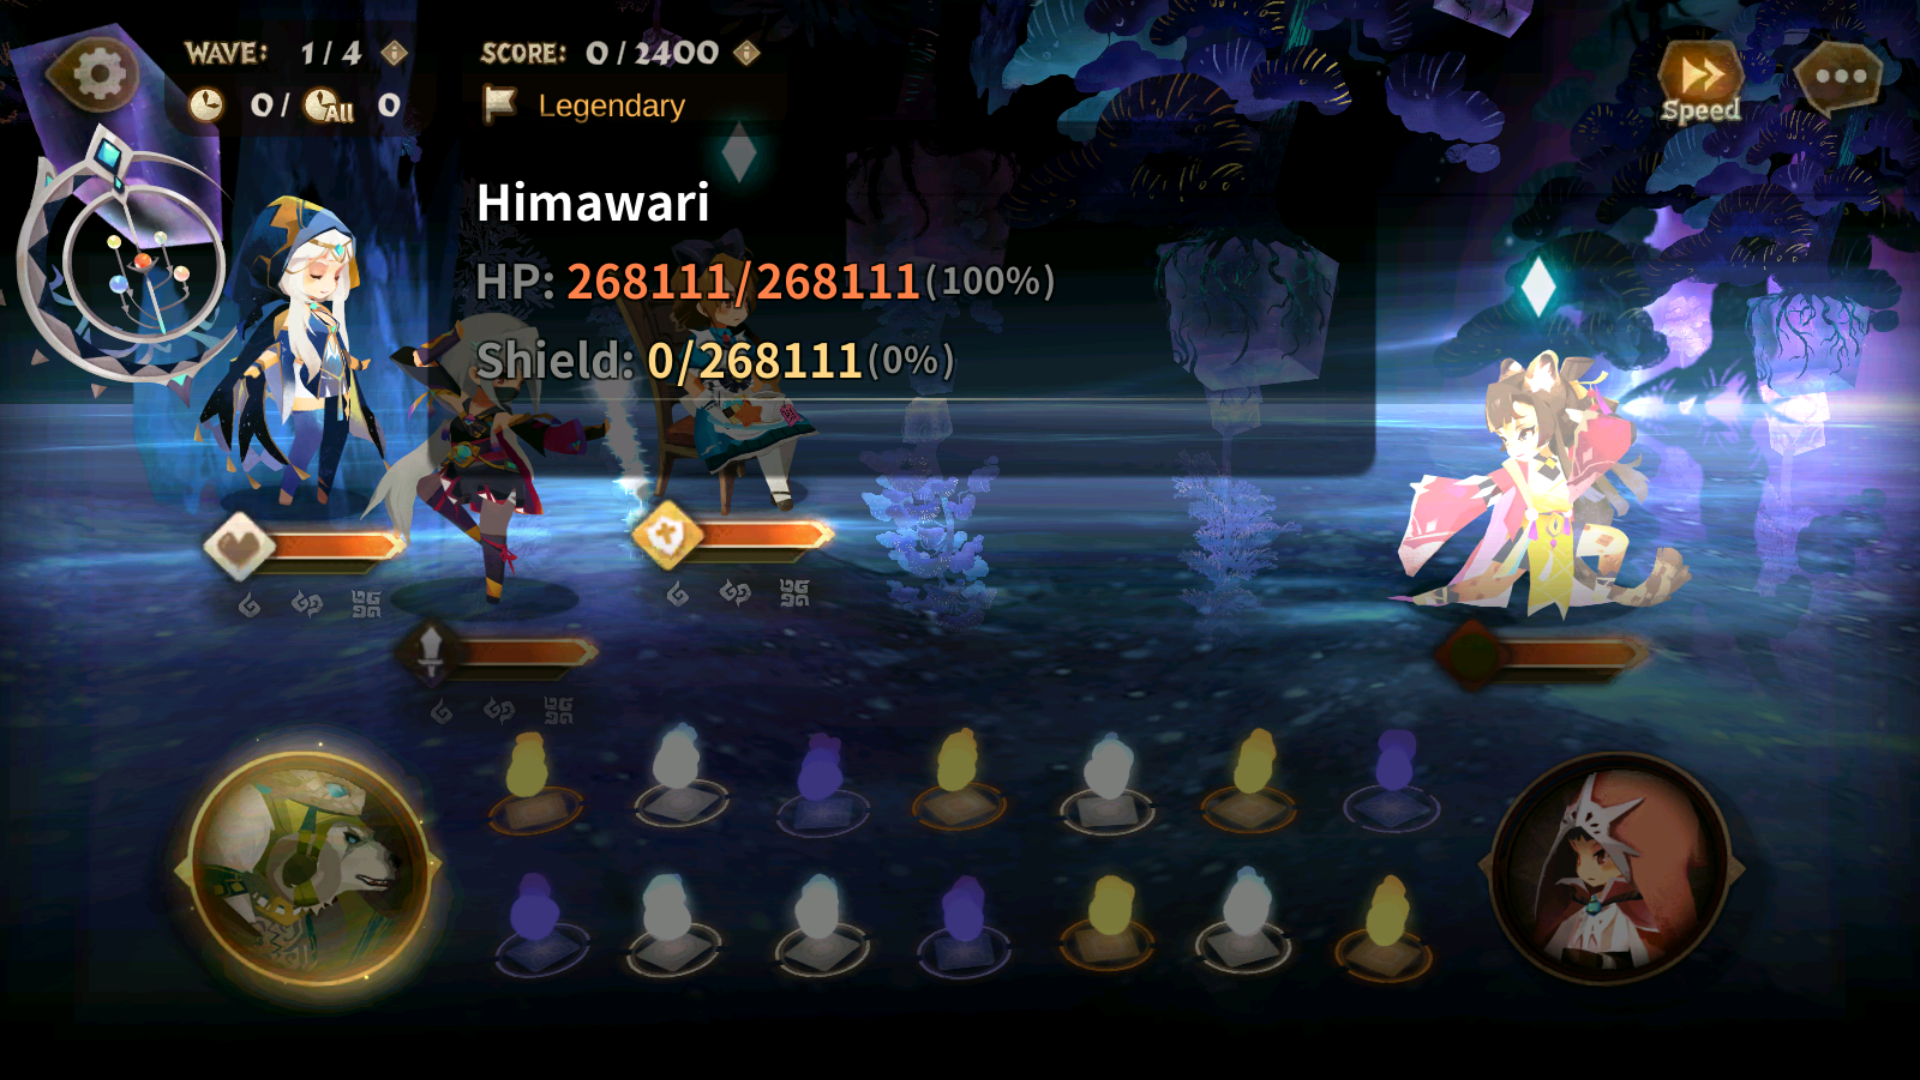
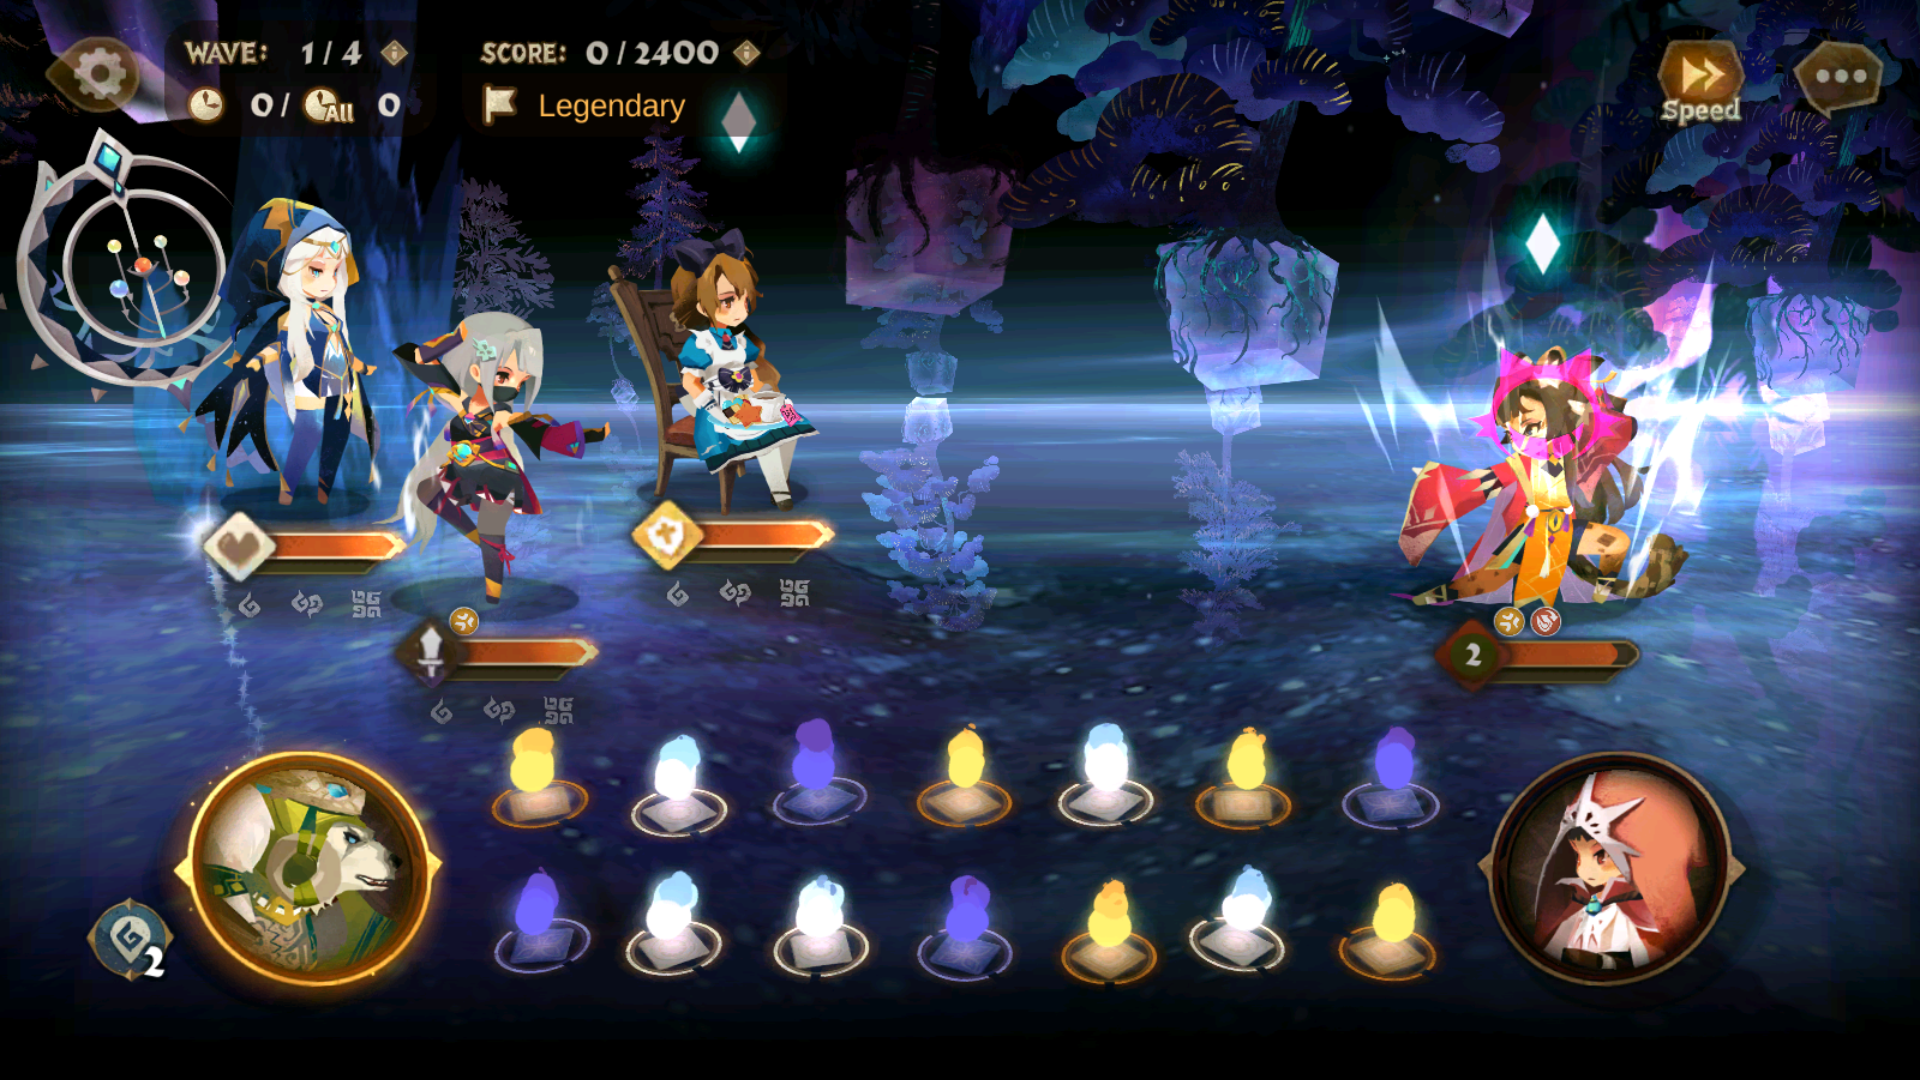
update w4wt 6, 7, 8 popover and content

diff --git a/week4.html b/week4.html
@@ -968,7 +968,7 @@
                 </div>
             </div>
 
-            <div class="collapse show" id="wt5">
+            <div class="collapse" id="wt5">
                 <div class="card card-body bg-secondary">
                     <div class="stage-item">
                         <h3>4-5: Wild Beasts</h3>
@@ -1346,8 +1346,16 @@
                             </div>
                             <div class="wave-img-container">
                                 <!--Wave Grid Item-->
-                                <img class="wave-img" src="/images/week3/wt6/wave1.jpg" alt="wt6 week1 wave1">
-                                <!--TODO: UPDATE WITH WAVE PICTURE-->
+                                <img class="wave-img" src="/images/week4/wt6/wave1.png" alt="wt6 week4 wave1">
+                                <div class="enemy-container fourth">
+                                    <div class="pop-div">
+                                        <div class="pop-title">Himawari</div>
+                                        <div class="pop-content">
+                                            <p>HP: 268111/268111</p>
+                                            <p>Armor: 0/268111</p>
+                                        </div>                                           
+                                    </div>
+                                </div>
                             </div>
                         </div>
 
@@ -1372,8 +1380,16 @@
                             </div>
                             <div class="wave-img-container">
                                 <!--Wave Grid Item-->
-                                <img class="wave-img" src="/images/week3/wt6/wave2.jpg" alt="wt6 week1 wave2">
-                                <!--TODO: UPDATE WITH WAVE PICTURE-->
+                                <img class="wave-img" src="/images/week4/wt6/wave2.png" alt="wt6 week4 wave2">
+                                <div class="enemy-container third">
+                                    <div class="pop-div">
+                                        <div class="pop-title">Qing Feng</div>
+                                        <div class="pop-content">
+                                            <p>HP: 285985/285985</p>
+                                            <p>Armor: 15283/285985</p>
+                                        </div>                                           
+                                    </div>
+                                </div>
                             </div>
                         </div>
 
@@ -1398,8 +1414,21 @@
                             </div>
                             <div class="wave-img-container">
                                 <!--Wave Grid Item-->
-                                <img class="wave-img" src="/images/week3/wt6/wave3.jpg" alt="wt6 week3 wave3">
-                                <!--TODO: UPDATE WITH WAVE PICTURE-->
+                                <img class="wave-img" src="/images/week4/wt6/wave3.png" alt="wt6 week4 wave3">
+                                <div class="enemy-container third">
+                                    <div class="pop-div">
+                                        <div class="pop-title">Toyokuni</div>
+                                        <div class="pop-content">
+                                            <p>HP: 512155/512155</p>
+                                            <p>Armor: 256078/512155</p>
+                                        </div>
+                                        <div class="pop-status">
+                                            <p>When this character is granted a debuff, trigger Retaliate against the attacker. [Trigger Limit]
+                                                This character's skill will remove orbs.</p>
+                                            <p>Misty Fog: When this character is attacked by a skill, decrease the skill power of the damage skill by 60%, and trigger this character's skill 1 time.</p>
+                                        </div>                                         
+                                    </div>
+                                </div>
                             </div>
                         </div>
 
@@ -1424,15 +1453,26 @@
                             </div>
                             <div class="wave-img-container">
                                 <!--Wave Grid Item-->
-                                <img class="wave-img" src="/images/week3/wt6/wave4.jpg" alt="wt6 week3 wave4">
-                                <!--TODO: UPDATE WITH WAVE PICTURE-->
+                                <img class="wave-img" src="/images/week4/wt6/wave4.png" alt="wt6 week4 wave4">
+                                <div class="enemy-container third">
+                                    <div class="pop-div">
+                                        <div class="pop-title">Maeok</div>
+                                        <div class="pop-content">
+                                            <p>HP: 512155/512155</p>
+                                            <p>Armor: 376717/512155</p>
+                                        </div>
+                                        <div class="pop-status">
+                                            <p>Punishment (3 stacks): Upon incoming damage skill, each stack will remove 1 attacker's orb.</p>            
+                                        </div>                                         
+                                    </div>
+                                </div>
                             </div>
                         </div>
                     </div>
                 </div>
             </div>
 
-            <div class="collapse" id="wt7">
+            <div class="collapse " id="wt7">
                 <div class="card card-body bg-secondary">
                     <div class="stage-item">
                         <h3>4-7: No Life Without Death</h3>
@@ -1463,8 +1503,46 @@
                             </div>
                             <div class="wave-img-container">
                                 <!--Wave Grid Item-->
-                                <img class="wave-img" src="/images/week3/wt7/wave1.jpg" alt="wt7 week1 wave1">
-                                <!--TODO: UPDATE WITH WAVE PICTURE-->
+                                <img class="wave-img" src="/images/week4/wt7/wave1.png" alt="wt7 week4 wave1">
+                                <div class="enemy-container second">
+                                    <div class="pop-div">
+                                        <div class="pop-title">Wolf Competitor</div>
+                                        <div class="pop-content">
+                                            <p>HP: 66783/66783</p>
+                                            <p>Armor: 20035/66783</p>
+                                        </div>
+                                        <div class="pop-status">
+                                            <p>Upon death, trigger skill 1 time.</p>
+                                            <p>Revive (2 stacks): Characters with this effect will not die. Upon 0 HP, grant self full Armor and HP; remove 1 stack of Revive. Upon Revive, remove Stun from self.</p>
+                                        </div>                                          
+                                    </div>
+                                </div>
+                                <div class="enemy-container third">
+                                    <div class="pop-div">
+                                        <div class="pop-title">Sea Horse Competitor</div>
+                                        <div class="pop-content">
+                                            <p>HP: 66783/66783</p>
+                                            <p>Armor: 20035/66783</p>
+                                        </div>
+                                        <div class="pop-status">
+                                            <p>Upon death, trigger skill 1 time.</p>
+                                            <p>Revive (2 stacks): Characters with this effect will not die. Upon 0 HP, grant self full Armor and HP; remove 1 stack of Revive. Upon Revive, remove Stun from self.</p>
+                                        </div>                                          
+                                    </div>
+                                </div>
+                                <div class="enemy-container fifth">
+                                    <div class="pop-div">
+                                        <div class="pop-title">Bull Competitor</div>
+                                        <div class="pop-content">
+                                            <p>HP: 66783/66783</p>
+                                            <p>Armor: 20035/66783</p>
+                                        </div>
+                                        <div class="pop-status">
+                                            <p>Upon death, trigger skill 1 time.</p>
+                                            <p>Revive (2 stacks): Characters with this effect will not die. Upon 0 HP, grant self full Armor and HP; remove 1 stack of Revive. Upon Revive, remove Stun from self.</p>
+                                        </div>                                          
+                                    </div>
+                                </div>
                             </div>
                         </div>
                         <div class="wave-item-container">
@@ -1488,8 +1566,16 @@
                             </div>
                             <div class="wave-img-container">
                                 <!--Wave Grid Item-->
-                                <img class="wave-img" src="/images/week3/wt7/wave1.jpg" alt="wt7 week1 wave1">
-                                <!--TODO: UPDATE WITH WAVE PICTURE-->
+                                <img class="wave-img" src="/images/week4/wt7/wave2.png" alt="wt7 week4 wave2">
+                                <div class="enemy-container third">
+                                    <div class="pop-div">
+                                        <div class="pop-title">DylanSP</div>
+                                        <div class="pop-content">
+                                            <p>HP: 232363/232363</p>
+                                            <p>Armor: 0/232363</p>
+                                        </div>                                         
+                                    </div>
+                                </div>
                             </div>
                         </div>
                         <div class="wave-item-container">
@@ -1513,15 +1599,26 @@
                             </div>
                             <div class="wave-img-container">
                                 <!--Wave Grid Item-->
-                                <img class="wave-img" src="/images/week3/wt7/wave1.jpg" alt="wt7 week1 wave1">
-                                <!--TODO: UPDATE WITH WAVE PICTURE-->
+                                <img class="wave-img" src="/images/week4/wt7/wave3.png" alt="wt7 week4 wave3">
+                                <div class="enemy-container fifth">
+                                    <div class="pop-div">
+                                        <div class="pop-title">Thorn Monster</div>
+                                        <div class="pop-content">
+                                            <p>HP: 806278/806278</p>
+                                            <p>Armor: 806278/806278</p>
+                                        </div>
+                                        <div class="pop-status">
+                                            <p>Upon the start of battle, trigger death of gold and black ally.</p>
+                                        </div>                                         
+                                    </div>
+                                </div>
                             </div>
                         </div>
                     </div>
                 </div>
             </div>
 
-            <div class="collapse" id="wt8">
+            <div class="collapse show" id="wt8">
                 <div class="card card-body bg-secondary">
                     <div class="stage-item">
                         <h3>4-8: Demonized Follower</h3>
@@ -1577,8 +1674,57 @@
                             </div>
                             <div class="wave-img-container">
                                 <!--Wave Grid Item-->
-                                <img class="wave-img" src="/images/week3/wt8/wave1.jpg" alt="wt8 week3 wave1">
-                                <!--TODO: UPDATE WITH WAVE PICTURE-->
+                                <img class="wave-img" src="/images/week4/wt8/wave1.png" alt="wt8 week4 wave1">
+                                <div class="enemy-container first">
+                                    <div class="pop-div">
+                                        <div class="pop-title">Ralph Lavande</div>
+                                        <div class="pop-content">
+                                            <p>HP: 12850832/12850832</p>
+                                            <p>Armor: 12850832/12850832</p>
+                                        </div>
+                                        <div class="pop-status">
+                                            <p>This character will retreat after battling for 10 turns.</p>
+                                            <p>This character won't be affected by Poison or Tear and they'll remove Stun from self immediately.</p>
+                                            <p>This character's skill will change the orb colors.</p>
+                                        </div>                                          
+                                    </div>
+                                </div>
+                                <div class="enemy-container third">
+                                    <div class="pop-div">
+                                        <div class="pop-title">Slums Female</div>
+                                        <div class="pop-content">
+                                            <p>HP: 12850832/12850832</p>
+                                            <p>Armor: 12850832/12850832</p>
+                                        </div>
+                                        <div class="pop-status">                                            
+                                            <p>This character won't be affected by Poison or Tear and they'll remove Stun from self immediately.</p>
+                                        </div>                                          
+                                    </div>
+                                </div>
+                                <div class="enemy-container fourth">
+                                    <div class="pop-div">
+                                        <div class="pop-title">Slums Male</div>
+                                        <div class="pop-content">
+                                            <p>HP: 321271/642542</p>
+                                            <p>Armor: 321271/642542</p>
+                                        </div>
+                                        <div class="pop-status">                                            
+                                            <p>This character won't be affected by Poison or Tear and they'll remove Stun from self immediately.</p>
+                                        </div>                                          
+                                    </div>
+                                </div>
+                                <div class="enemy-container fifth">
+                                    <div class="pop-div">
+                                        <div class="pop-title">Slums Male</div>
+                                        <div class="pop-content">
+                                            <p>HP: 321271/642542</p>
+                                            <p>Armor: 321271/642542</p>
+                                        </div>
+                                        <div class="pop-status">                                            
+                                            <p>This character won't be affected by Poison or Tear and they'll remove Stun from self immediately.</p>
+                                        </div>                                          
+                                    </div>
+                                </div>
                             </div>
                         </div>
                     </div>
